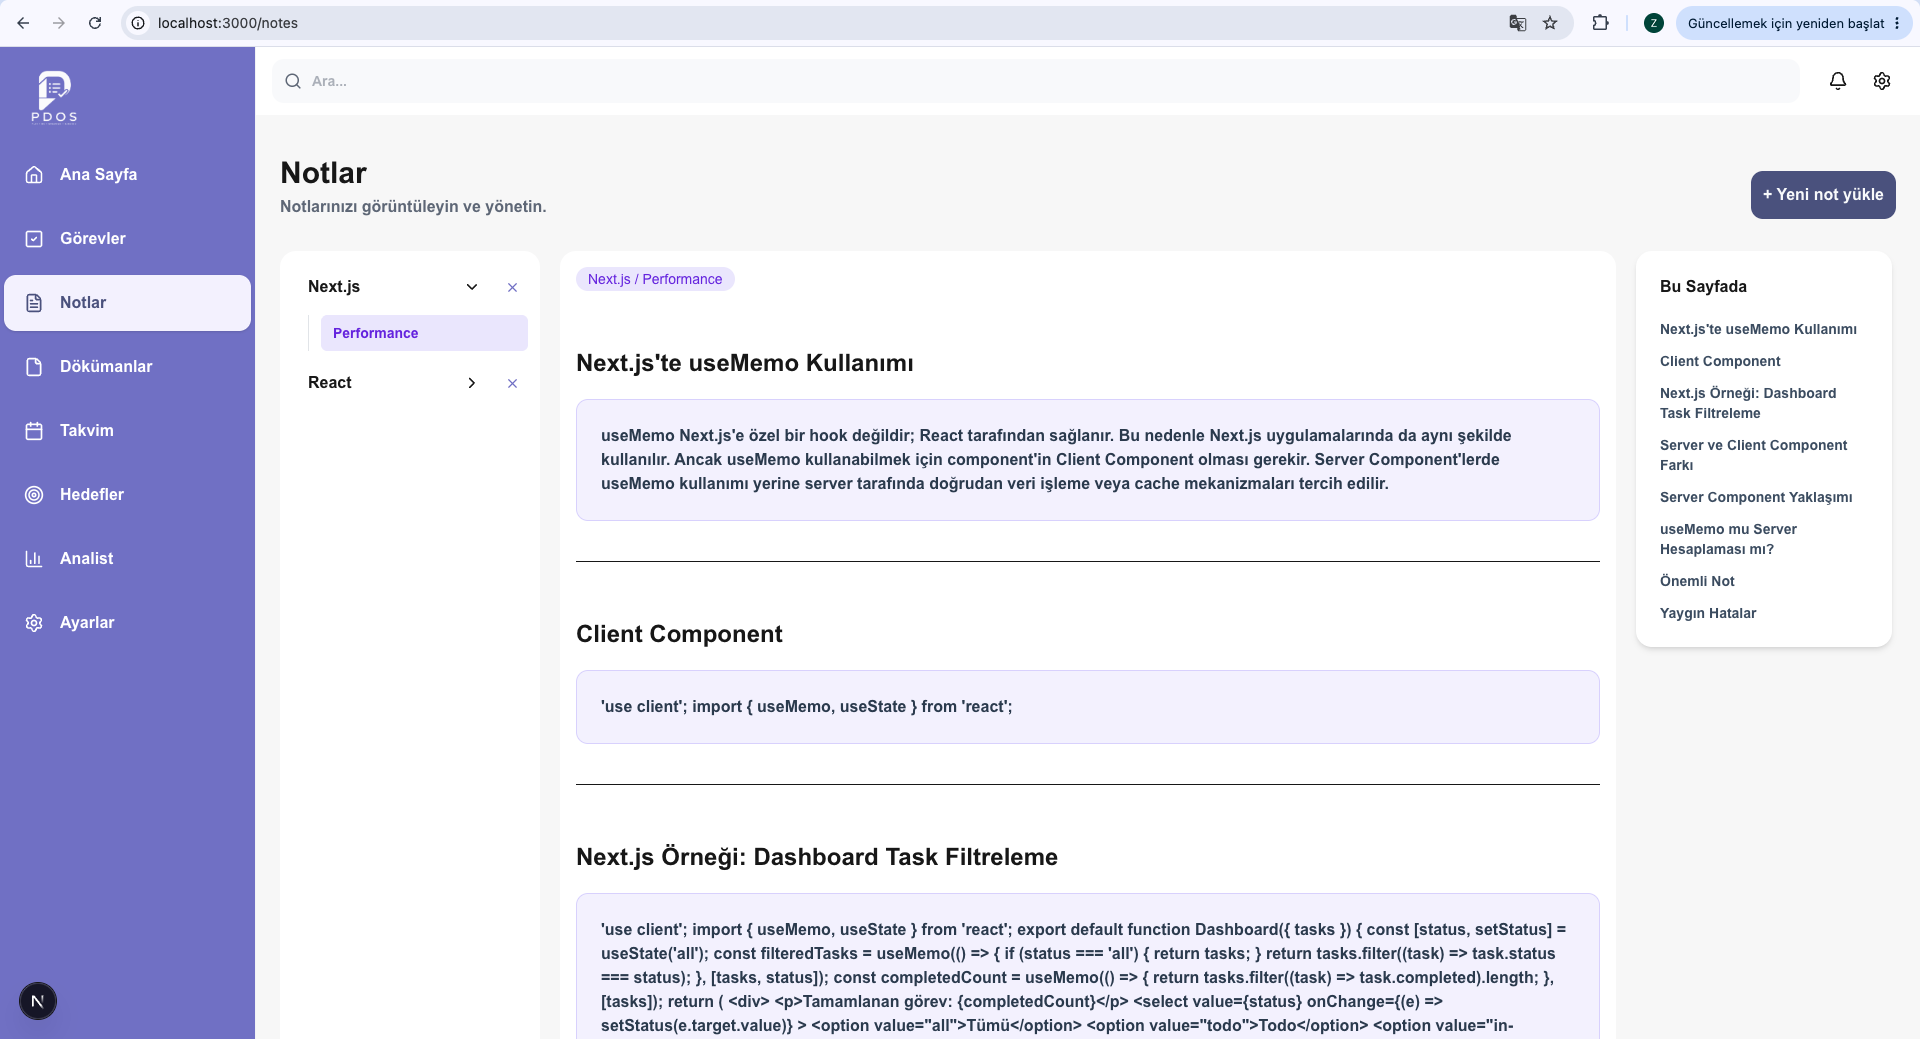
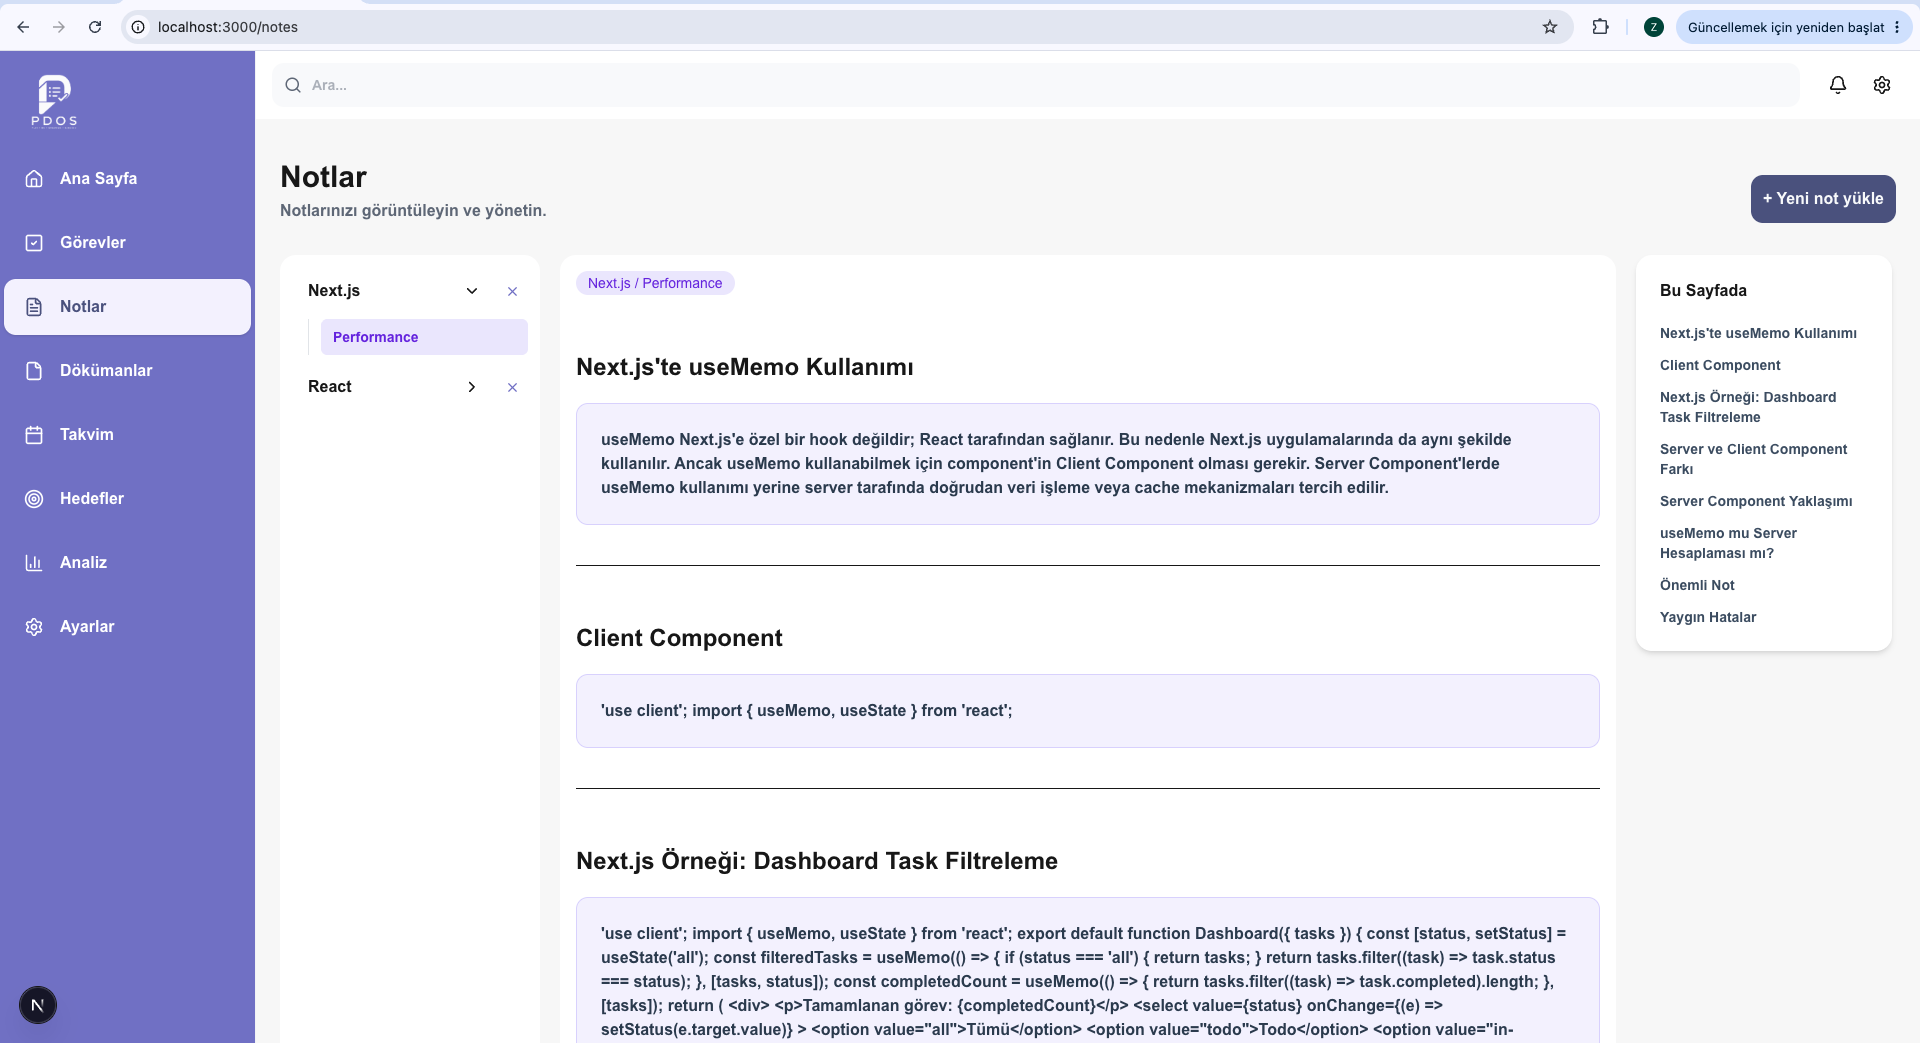
-

diff --git a/client/src/shared/components/organisms/Sidebar/Sidebar.js b/client/src/shared/components/organisms/Sidebar/Sidebar.js
@@ -21,7 +21,7 @@ const menu = [
   { id: 4, name: "Dökümanlar", icon: File, href: "/documents" },
   { id: 5, name: "Takvim", icon: Calendar, href: "/calendar" },
   { id: 6, name: "Hedefler", icon: Target, href: "/goals" },
-  { id: 7, name: "Analist", icon: BarChart3, href: "/analytics" },
+  { id: 7, name: "Analiz", icon: BarChart3, href: "/analytics" },
   { id: 8, name: "Ayarlar", icon: Settings, href: "/settings" },
 ];
 

diff --git a/client/src/features/dashboard/components/DashboardFocus/DashboardFocus.js b/client/src/features/dashboard/components/DashboardFocus/DashboardFocus.js
@@ -311,7 +311,7 @@ export default function DashboardFocus({ duration }) {
 
               return (
                 <div
-                  key={item.date}
+                  key={item.id}
                   className="flex flex-col items-center gap-2"
                 >
                   <span className="text-xs font-medium text-purple-300">

diff --git a/client/src/features/analytics/components/AnalyticsHome/AnalyticsHome.js b/client/src/features/analytics/components/AnalyticsHome/AnalyticsHome.js
@@ -29,7 +29,7 @@ export default function AnalyticsHome({
 
 <div className="flex flex-col gap-4 md:flex-row py-4 md:items-center md:justify-between">
         <PageHeader
-          title="Analist"
+          title="Analiz"
           description="Periyotlarınızın takibini yapın."
    
         />
